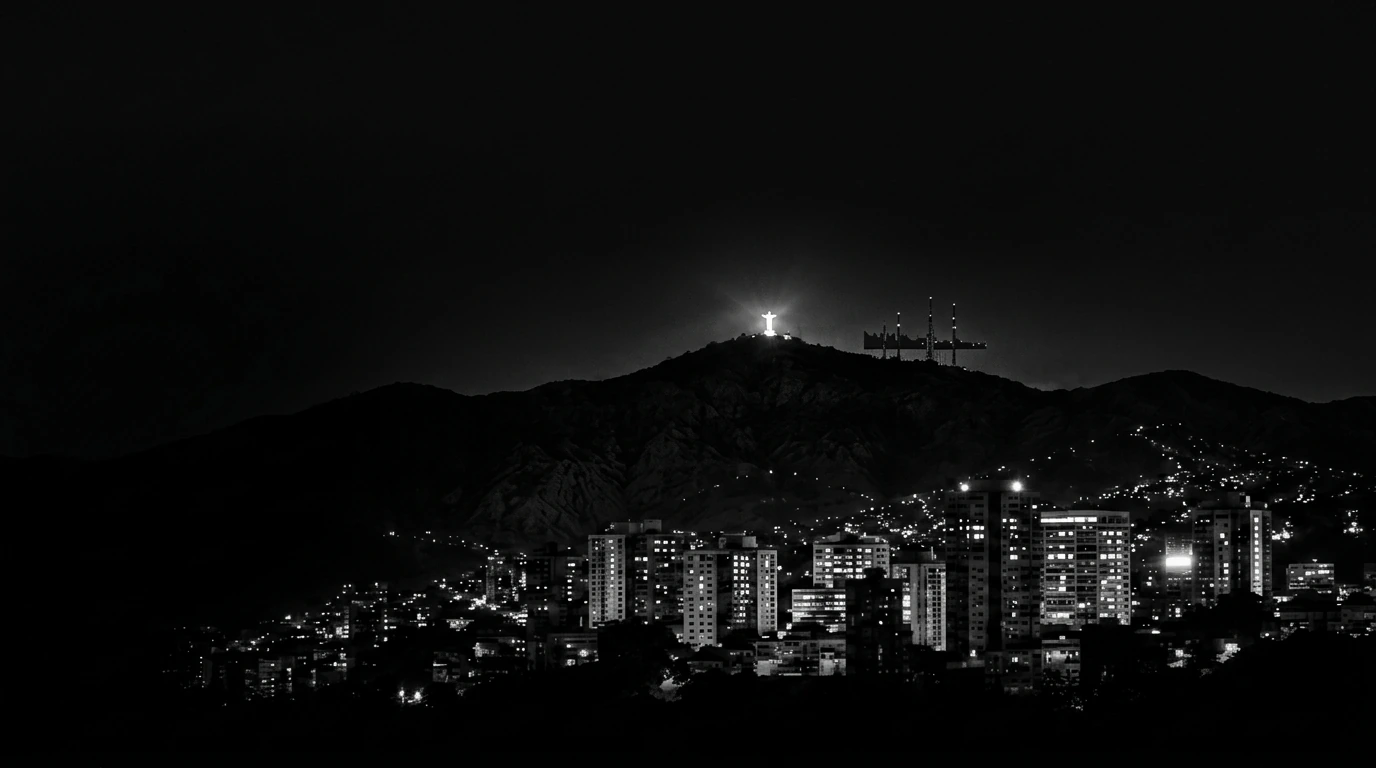
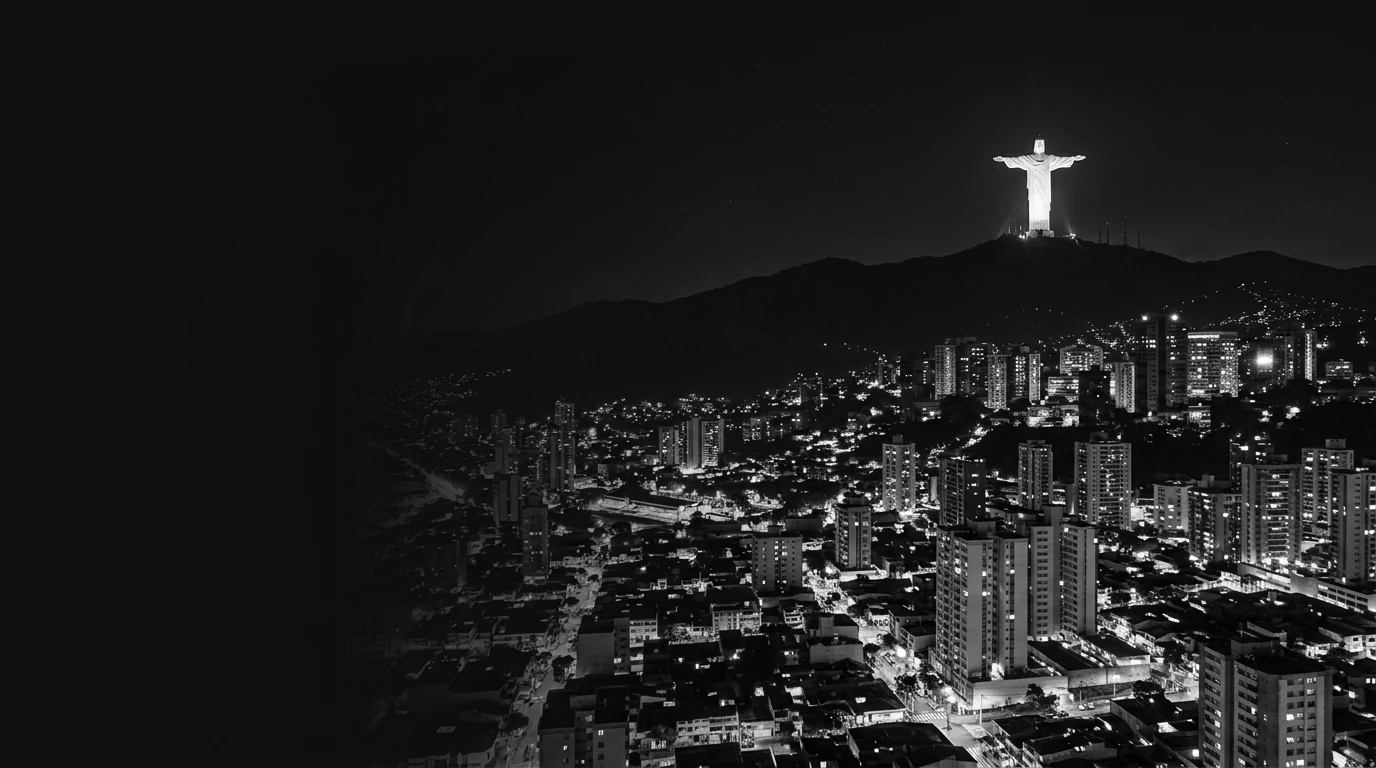
feat(footer): integrate panoramic Cristo Rey visual layer and seamless sticky bar alignment

Changed region(s): [[0.1875, 0.3438, 1.0, 1.0], [0.6875, 0.1562, 1.0, 0.375]]

diff --git a/src/components/layout/Footer.tsx b/src/components/layout/Footer.tsx
@@ -57,20 +57,40 @@ export const Footer: React.FC = () => {
       <div className="w-full max-w-[1760px] mx-auto px-6 sm:px-10 lg:px-14 xl:px-16 2xl:px-20 pt-16 sm:pt-20 lg:pt-24 pb-8 flex flex-col justify-between relative z-10">
         
         {/* ========================================================
-            PART 1: HERO ZONE (Split: Left Copy + Right Night City)
+            PART 1: HERO ZONE (Split: Left Copy + Right Panoramic Night City)
             ======================================================== */}
-        <div className="flex flex-col lg:flex-row items-start lg:items-center justify-between gap-10 lg:gap-8 pb-14 sm:pb-18 lg:pb-20 relative">
+        <div className="relative min-h-[460px] lg:min-h-[500px] xl:min-h-[540px] flex flex-col justify-between pb-12 sm:pb-14 lg:pb-16">
           
-          {/* Left: Eyebrow + Monumental Question + Subtitle + Action Pills */}
-          <div className="w-full lg:w-[48%] xl:w-[46%] 2xl:w-[45%] flex flex-col items-start justify-center space-y-6 sm:space-y-7 z-10">
+          {/* Desktop Panoramic Background Layer */}
+          <div className="hidden lg:block absolute right-0 top-0 bottom-6 w-[58%] xl:w-[62%] 2xl:w-[65%] pointer-events-none select-none overflow-hidden">
+            <picture className="w-full h-full block">
+              <source type="image/webp" srcSet="/cristo-rey-cali-night.webp" />
+              <img
+                src="/cristo-rey-cali-night.jpg"
+                alt="Panorámica nocturna de Cali desde Cristo Rey"
+                className="w-full h-full object-cover object-[right_center] transition-transform duration-1000 ease-out hover:scale-[1.02]"
+                width={1376}
+                height={768}
+                loading="lazy"
+                decoding="async"
+              />
+            </picture>
+            {/* Smooth edge overlays to guarantee flawless blend into #111111 */}
+            <div className="absolute inset-y-0 left-0 w-32 bg-gradient-to-r from-[#111111] via-[#111111]/70 to-transparent pointer-events-none" />
+            <div className="absolute inset-x-0 top-0 h-16 bg-gradient-to-b from-[#111111] to-transparent pointer-events-none" />
+            <div className="absolute inset-x-0 bottom-0 h-16 bg-gradient-to-t from-[#111111] to-transparent pointer-events-none" />
+          </div>
+
+          {/* Upper Content Row: Left Hero Copy */}
+          <div className="relative z-10 w-full lg:w-[48%] xl:w-[46%] 2xl:w-[44%] flex flex-col items-start justify-center space-y-6 sm:space-y-7 pt-2 lg:pt-4">
             
             {/* Eyebrow */}
-            <span className="text-xs font-sans tracking-[0.25em] text-white/50 uppercase font-medium">
+            <span className="text-[11px] sm:text-xs font-semibold tracking-[0.2em] text-white/50 uppercase font-sans">
               {t.footer.eyebrow}
             </span>
 
             {/* Headline */}
-            <h2 className="text-3xl sm:text-5xl lg:text-[3.75rem] xl:text-[4.25rem] 2xl:text-[4.6rem] font-display font-medium text-white tracking-tight leading-[1.06] m-0">
+            <h2 className="text-3xl sm:text-5xl lg:text-[3.5rem] xl:text-[4rem] 2xl:text-[4.4rem] font-display font-medium text-white tracking-tight leading-[1.06] m-0">
               {t.footer.headlineLine1.trim()}{' '}
               <br />
               {t.footer.headlineLine2}
@@ -86,7 +106,7 @@ export const Footer: React.FC = () => {
               {/* Email Pill */}
               <a
                 href={`mailto:${t.footer.email}`}
-                className="w-full sm:w-auto px-6 py-3.5 rounded-full border border-white/20 hover:border-white bg-white/[0.03] hover:bg-white/10 text-white text-xs sm:text-sm font-sans font-medium transition-all duration-300 flex items-center justify-center gap-2.5 active:scale-[0.98] group"
+                className="w-full sm:w-auto px-6 py-3.5 rounded-full border border-white/20 hover:border-white/60 bg-white/[0.03] hover:bg-white/[0.08] text-white text-xs sm:text-sm font-sans font-medium transition-all duration-300 flex items-center justify-center gap-2.5 active:scale-[0.98] group"
                 data-interactive
               >
                 <Mail className="w-4 h-4 text-white/70 group-hover:text-white transition-colors" />
@@ -98,7 +118,7 @@ export const Footer: React.FC = () => {
                 href={siteConfig.profile.contact.whatsapp}
                 target="_blank"
                 rel="noopener noreferrer"
-                className="w-full sm:w-auto px-6 py-3.5 rounded-full border border-white/20 hover:border-white bg-white/[0.03] hover:bg-white/10 text-white text-xs sm:text-sm font-sans font-medium transition-all duration-300 flex items-center justify-center gap-2.5 active:scale-[0.98] group"
+                className="w-full sm:w-auto px-6 py-3.5 rounded-full border border-white/20 hover:border-white/60 bg-white/[0.03] hover:bg-white/[0.08] text-white text-xs sm:text-sm font-sans font-medium transition-all duration-300 flex items-center justify-center gap-2.5 active:scale-[0.98] group"
                 data-interactive
               >
                 <MessageCircle className="w-4 h-4 text-white/70 group-hover:text-white transition-colors" />
@@ -111,43 +131,38 @@ export const Footer: React.FC = () => {
 
             {/* Response Status Badge */}
             <div className="flex items-center gap-2 pt-1 text-xs text-white/60 font-sans">
-              <span className="w-2 h-2 rounded-full bg-[#00C988] shadow-[0_0_8px_rgba(0,201,136,0.8)] animate-pulse" />
+              <span className="w-2 h-2 rounded-full bg-emerald-500 animate-pulse" />
               <span>{t.footer.responseBadge}</span>
             </div>
           </div>
 
-          {/* Right: Cristo Rey & Cali Nocturnal Panorama + Orientation Line */}
-          <div className="w-full lg:w-[52%] xl:w-[54%] 2xl:w-[55%] relative flex flex-col justify-end min-h-[280px] sm:min-h-[360px] lg:min-h-[440px] xl:min-h-[480px] 2xl:min-h-[520px] overflow-hidden rounded-2xl lg:rounded-none">
-            
-            {/* High-Resolution B&W Night Photograph Matching GPT 100% with Soft Seamless Masking */}
-            <picture className="absolute inset-0 w-full h-full">
+          {/* Mobile/Tablet Fallback Photo Layer */}
+          <div className="block lg:hidden w-full relative min-h-[260px] sm:min-h-[320px] rounded-xl overflow-hidden mt-8 mb-2">
+            <picture className="w-full h-full block">
               <source type="image/webp" srcSet="/cristo-rey-cali-night.webp" />
               <img
                 src="/cristo-rey-cali-night.jpg"
-                alt="Cristo Rey y panorámica nocturna de Cali, Colombia — JP Studios"
-                className="w-full h-full object-cover object-[center_35%] select-none pointer-events-none [mask-image:linear-gradient(to_right,transparent_0%,rgba(0,0,0,0.25)_10%,rgba(0,0,0,0.85)_26%,black_45%)] [-webkit-mask-image:linear-gradient(to_right,transparent_0%,rgba(0,0,0,0.25)_10%,rgba(0,0,0,0.85)_26%,black_45%)]"
-                loading="lazy"
-                decoding="async"
+                alt="Panorámica nocturna de Cali desde Cristo Rey"
+                className="w-full h-full object-cover object-center"
                 width={1376}
                 height={768}
+                loading="lazy"
+                decoding="async"
               />
             </picture>
+            <div className="absolute inset-0 bg-gradient-to-t from-[#111111] via-transparent to-transparent pointer-events-none" />
+          </div>
 
-            {/* Top and Bottom soft feathers ensuring 100% seamless blend with #111111 */}
-            <div className="absolute inset-x-0 top-0 h-16 bg-gradient-to-b from-[#111111] via-[#111111]/50 to-transparent pointer-events-none" />
-            <div className="absolute inset-x-0 bottom-0 h-16 bg-gradient-to-t from-[#111111] via-[#111111]/80 to-transparent pointer-events-none" />
-
-            {/* Orientation Line Lockup Matching Mockup Baseline */}
-            <div className="relative z-10 flex items-center justify-between sm:justify-end gap-3.5 px-2 pb-2 text-xs font-sans text-white/70 select-none">
-              <div className="flex items-center gap-1.5 shrink-0 text-white/80">
-                <MapPin className="w-3.5 h-3.5 text-white/60" />
-                <span className="font-medium text-[11px] sm:text-xs">Cali, Colombia</span>
-              </div>
-              <span className="h-px bg-white/20 flex-1 max-w-[140px] sm:max-w-[200px]" aria-hidden="true" />
-              <span className="text-[9.5px] sm:text-[10px] tracking-[0.16em] uppercase text-white/45 font-sans whitespace-nowrap">
-                {t.footer.slogan}
-              </span>
+          {/* Baseline Row: Orientation Line Lockup Matching Mockup Baseline */}
+          <div className="relative z-10 w-full flex items-center justify-between lg:justify-end gap-3.5 pt-6 lg:pt-0 text-xs font-sans text-white/70 select-none">
+            <div className="flex items-center gap-1.5 shrink-0 text-white/80">
+              <MapPin className="w-3.5 h-3.5 text-white/60" />
+              <span className="font-medium text-[11px] sm:text-xs">Cali, Colombia</span>
             </div>
+            <span className="h-px bg-white/20 w-16 sm:w-28 lg:w-40" aria-hidden="true" />
+            <span className="text-[11px] tracking-wider text-white/60 font-sans whitespace-nowrap uppercase">
+              {t.footer.slogan}
+            </span>
           </div>
 
         </div>

diff --git a/src/components/layout/Header.tsx b/src/components/layout/Header.tsx
@@ -2,13 +2,13 @@ import React, { useState, useEffect, useRef } from 'react';
 import { siteConfig } from '../../config/site';
 import { useLiveTime } from '../../hooks/useLiveTime';
 import { useLanguage } from '../../context/LanguageContext';
-import { LanguageToggle } from '../ui/LanguageToggle';
 
 export const Header: React.FC = () => {
   const { t } = useLanguage();
   const liveTime = useLiveTime(siteConfig.profile.timezone);
   const [isScrolled, setIsScrolled] = useState(false);
   const [isPastHero, setIsPastHero] = useState(false);
+  const [isOverFooter, setIsOverFooter] = useState(false);
   const [isDark, setIsDark] = useState(false);
   const [isMenuOpen, setIsMenuOpen] = useState(false);
   const [activeSection, setActiveSection] = useState<string | null>(null);
@@ -31,6 +31,15 @@ export const Header: React.FC = () => {
         setIsPastHero(rect.bottom <= 100);
       } else {
         setIsPastHero(scrollY > 400);
+      }
+
+      // Detect if sticky bar is entering or over the footer area
+      const footerEl = document.getElementById('footer');
+      if (footerEl) {
+        const fRect = footerEl.getBoundingClientRect();
+        setIsOverFooter(fRect.top <= 85);
+      } else {
+        setIsOverFooter(false);
       }
 
       // Check if sticky bar is currently overlapping any section marked data-theme="dark"
@@ -193,15 +202,17 @@ export const Header: React.FC = () => {
       <header
         className={`sticky top-0 z-40 w-full select-none transition-all duration-500 ease-out ${
           isScrolled
-            ? isDark
-              ? 'bg-[#111111]/92 backdrop-blur-md border-b border-white/[0.08] shadow-[0_4px_24px_rgba(0,0,0,0.5)] py-3 sm:py-3.5'
-              : 'bg-[#fafaf8]/95 backdrop-blur-md border-b border-black/[0.08] shadow-[0_4px_24px_rgba(0,0,0,0.03)] py-3 sm:py-3.5'
+            ? isOverFooter
+              ? 'bg-[#111111]/85 backdrop-blur-md border-b border-transparent shadow-none py-3 sm:py-3.5'
+              : isDark
+                ? 'bg-[#111111]/92 backdrop-blur-md border-b border-white/[0.08] shadow-[0_4px_24px_rgba(0,0,0,0.5)] py-3 sm:py-3.5'
+                : 'bg-[#fafaf8]/95 backdrop-blur-md border-b border-black/[0.08] shadow-[0_4px_24px_rgba(0,0,0,0.03)] py-3 sm:py-3.5'
             : 'bg-transparent border-b border-transparent shadow-none py-6 sm:py-8 lg:py-9'
         }`}
       >
         <div
           className={`w-full mx-auto flex items-center justify-between gap-4 transition-all duration-500 ${
-            isPastHero
+            isPastHero && !isOverFooter
               ? 'max-w-[1400px] px-4 sm:px-8 lg:px-12'
               : 'max-w-[1760px] px-6 sm:px-10 lg:px-14 xl:px-16 2xl:px-20'
           }`}
@@ -228,7 +239,7 @@ export const Header: React.FC = () => {
             </a>
 
             <span
-              className={`hidden sm:block w-px transition-all duration-500 ${
+              className={`hidden sm:block w-px transition-colors duration-500 ${
                 isDark ? 'bg-white/20' : 'bg-black/15'
               } ${
                 isScrolled ? 'h-5 mx-0.5' : 'h-7 mx-1 sm:mx-1.5'
@@ -236,9 +247,9 @@ export const Header: React.FC = () => {
               aria-hidden="true"
             />
 
-            <div className="hidden sm:flex flex-col text-left leading-tight transition-all duration-500">
+            <div className="hidden sm:flex flex-col text-left leading-tight transition-colors duration-500">
               <span
-                className={`font-bold tracking-[0.08em] uppercase font-sans transition-all duration-500 ${
+                className={`font-bold tracking-[0.08em] uppercase font-sans transition-colors duration-500 ${
                   isDark ? 'text-white' : 'text-[#141517]'
                 } ${
                   isScrolled ? 'text-[9.5px]' : 'text-[10.5px] sm:text-[11px]'
@@ -247,7 +258,7 @@ export const Header: React.FC = () => {
                 {t.nav.location}
               </span>
               <span
-                className={`font-medium tracking-[0.08em] uppercase font-sans transition-all duration-500 ${
+                className={`font-medium tracking-[0.08em] uppercase font-sans transition-colors duration-500 ${
                   isDark ? 'text-white/50' : 'text-black/50'
                 } ${
                   isScrolled ? 'text-[8px]' : 'text-[9px] sm:text-[9.5px]'
@@ -261,11 +272,11 @@ export const Header: React.FC = () => {
           {/* Center: Primary Navigation Links with Floating Active Pill */}
           <nav
             ref={navRef}
-            className="relative hidden lg:flex items-center text-sm font-sans transition-all duration-500 gap-1 xl:gap-2 py-1"
+            className="relative hidden lg:flex items-center text-sm font-sans transition-colors duration-500 gap-1 xl:gap-2 py-1"
           >
             {/* Sliding Magnetic Pill Indicator (Only on Active Item) */}
             <div
-              className={`absolute top-1/2 -translate-y-1/2 h-[38px] rounded-full pointer-events-none transition-all duration-500 ease-[cubic-bezier(0.16,1,0.3,1)] ${
+              className={`absolute top-1/2 -translate-y-1/2 h-[38px] rounded-full pointer-events-none transition-[transform,opacity] duration-500 ease-[cubic-bezier(0.16,1,0.3,1)] ${
                 isDark ? 'bg-white/[0.14] shadow-xs' : 'bg-black/[0.06] shadow-2xs'
               }`}
               style={{
@@ -302,12 +313,8 @@ export const Header: React.FC = () => {
             })}
           </nav>
 
-          {/* Right: Language Switcher Pill + Pulsing CTA Pill Button */}
+          {/* Right: Pulsing CTA Pill Button */}
           <div className="flex items-center gap-2.5 sm:gap-3.5 flex-shrink-0">
-            <div className="hidden sm:block">
-              <LanguageToggle theme={isDark ? 'dark' : 'light'} />
-            </div>
-
             <a
               href={siteConfig.profile.contact.whatsapp}
               target="_blank"
@@ -411,7 +418,6 @@ export const Header: React.FC = () => {
             decoding="async"
           />
           <div className="flex items-center gap-3">
-            <LanguageToggle theme="dark" />
             <button
               type="button"
               onClick={() => setIsMenuOpen(false)}
@@ -440,7 +446,7 @@ export const Header: React.FC = () => {
               >
                 <div className="flex items-center gap-3">
                   {isActive && (
-                    <span className="w-2 h-2 rounded-full bg-emerald-400 animate-pulse" />
+                    <span className="w-2 h-2 rounded-full bg-white" />
                   )}
                   <span className="text-2xl sm:text-3xl font-normal font-display tracking-[-0.01em] group-hover:translate-x-2 transition-all duration-300">
                     {link.label}
@@ -458,7 +464,7 @@ export const Header: React.FC = () => {
         <div className="pt-5 border-t border-white/10 space-y-4 font-sans">
           <div className="flex items-center justify-between text-xs text-white/70">
             <div>COT ({liveTime || 'UTC-5'})</div>
-            <div className="text-emerald-400 font-medium">{t.nav.availableWorldwide}</div>
+            <div className="text-white/80 font-medium">{t.nav.availableWorldwide}</div>
           </div>
 
           <div className="flex items-center gap-3 pt-1">

diff --git a/src/config/translations.ts b/src/config/translations.ts
@@ -540,8 +540,8 @@ export const translations: Record<Language, Translations> = {
       switchLangTooltip: 'Switch to English',
     },
     hero: {
-      headlineLine1: 'Páginas web en Cali,',
-      headlineLine2: 'para liderar Google',
+      headlineLine1: 'Páginas web en Cali, ',
+      headlineLine2: 'para liderar Google ',
       headlineLine3: 'y multiplicar tus ventas.',
       subtitle: 'Diseño y desarrollo web en Cali para empresas que necesitan dejar de perder clientes en Google y empezar a cerrar ventas directas por WhatsApp.',
       signature: 'JP Studios by Juan Pablo Chacón',
@@ -582,7 +582,7 @@ export const translations: Record<Language, Translations> = {
     },
     services: {
       tag: 'Servicios',
-      headerLine1: 'Ingeniería web para vender,',
+      headerLine1: 'Ingeniería web para vender, ',
       headerLine2: 'no solo para adornar.',
       seoDescription:
         'Desarrollo web en Cali, páginas de alta velocidad y presencia en Google. Diseñamos arquitectura en código limpio optimizada para captar clientes locales y conectar directamente por WhatsApp y llamadas.',
@@ -623,7 +623,7 @@ export const translations: Record<Language, Translations> = {
     },
     process: {
       tag: 'Proceso',
-      headerLine1: 'Tu web lista en 14 días.',
+      headerLine1: 'Tu web lista en 14 días. ',
       headerLine2: 'Sin enredos técnicos.',
       seoDescription:
         'Creamos sitios web y desarrollos a medida en Cali bajo un flujo estructurado de 14 días. De la estrategia comercial a tu página web en producción: rápida, optimizada para Google y lista para facturar.',
@@ -696,7 +696,7 @@ export const translations: Record<Language, Translations> = {
     },
     faq: {
       tag: 'Preguntas Frecuentes',
-      headerLine1: 'Respuestas claras.',
+      headerLine1: 'Respuestas claras. ',
       headerLine2: 'Sin letra pequeña.',
       tagline: 'Todo lo que necesitas saber antes de iniciar tu proyecto',
       whatsappPrompt: '¿No encuentras tu respuesta? Escríbeme y te respondo personalmente.',
@@ -736,7 +736,7 @@ export const translations: Record<Language, Translations> = {
     },
     contact: {
       sectionTag: 'Proyecto',
-      titleLine1: 'Iniciar un',
+      titleLine1: 'Iniciar un ',
       titleLine2: 'Proyecto.',
       description:
         'Cuéntanos brevemente sobre tu proyecto y te responderemos con una propuesta personalizada hoy mismo.',
